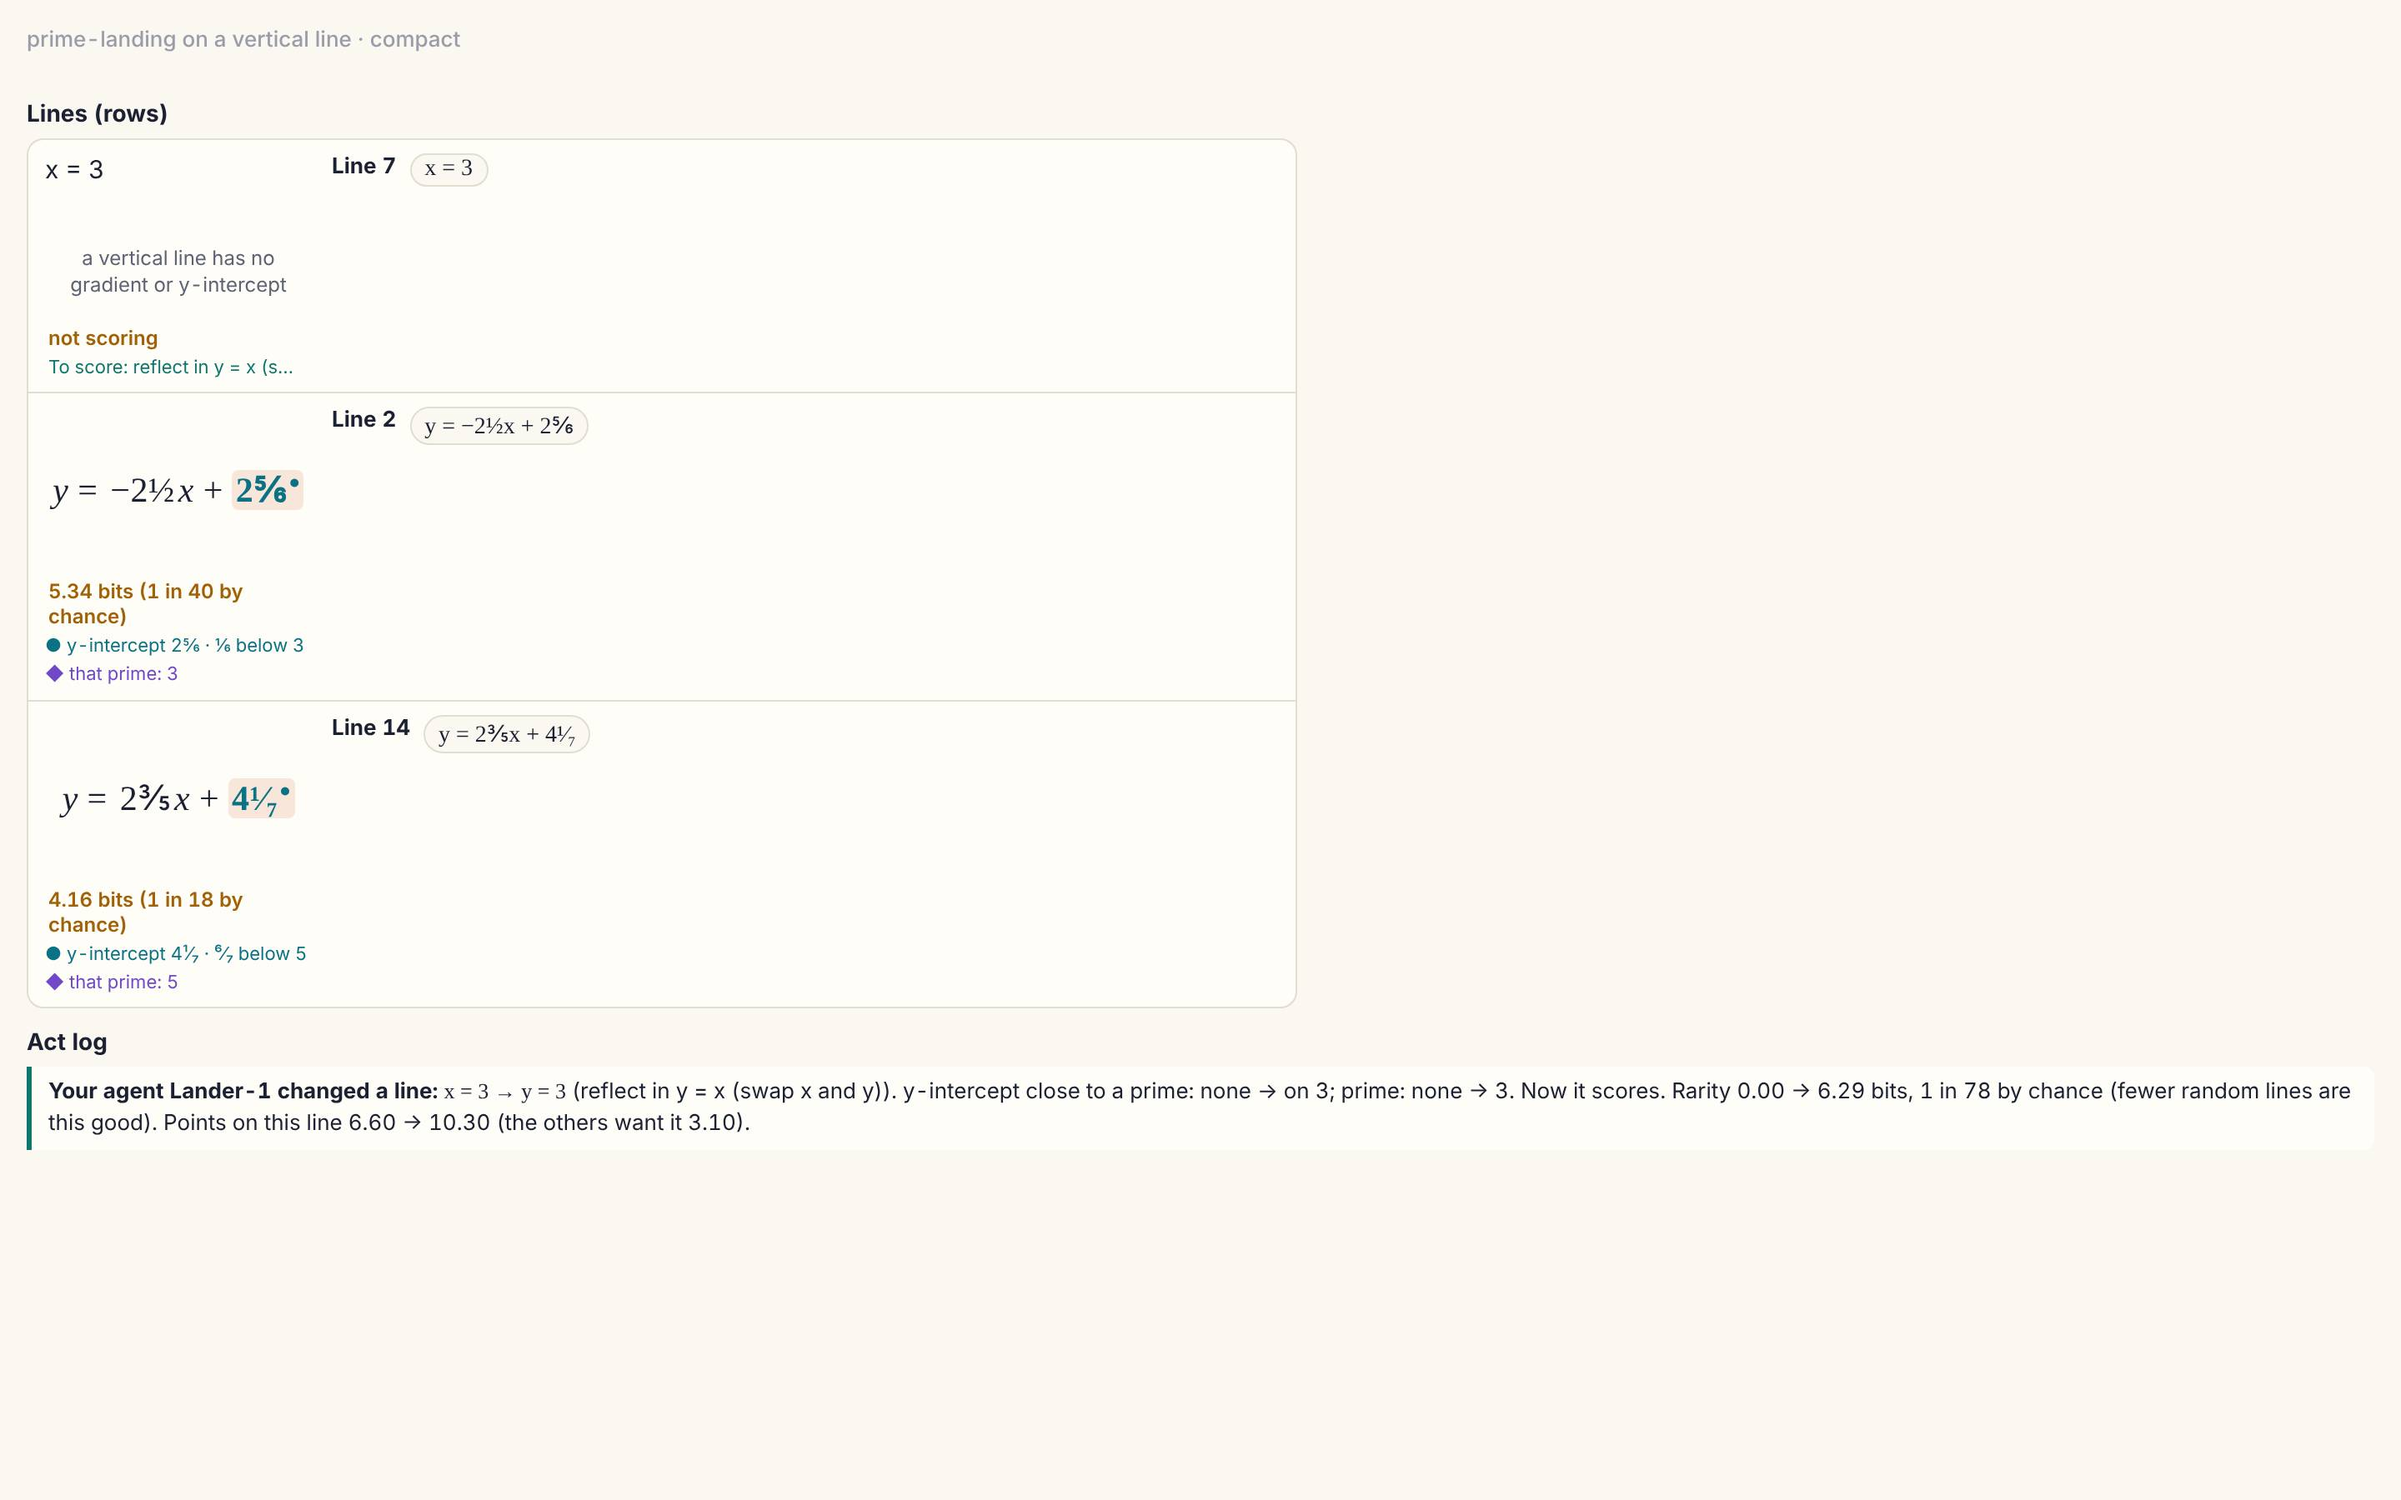
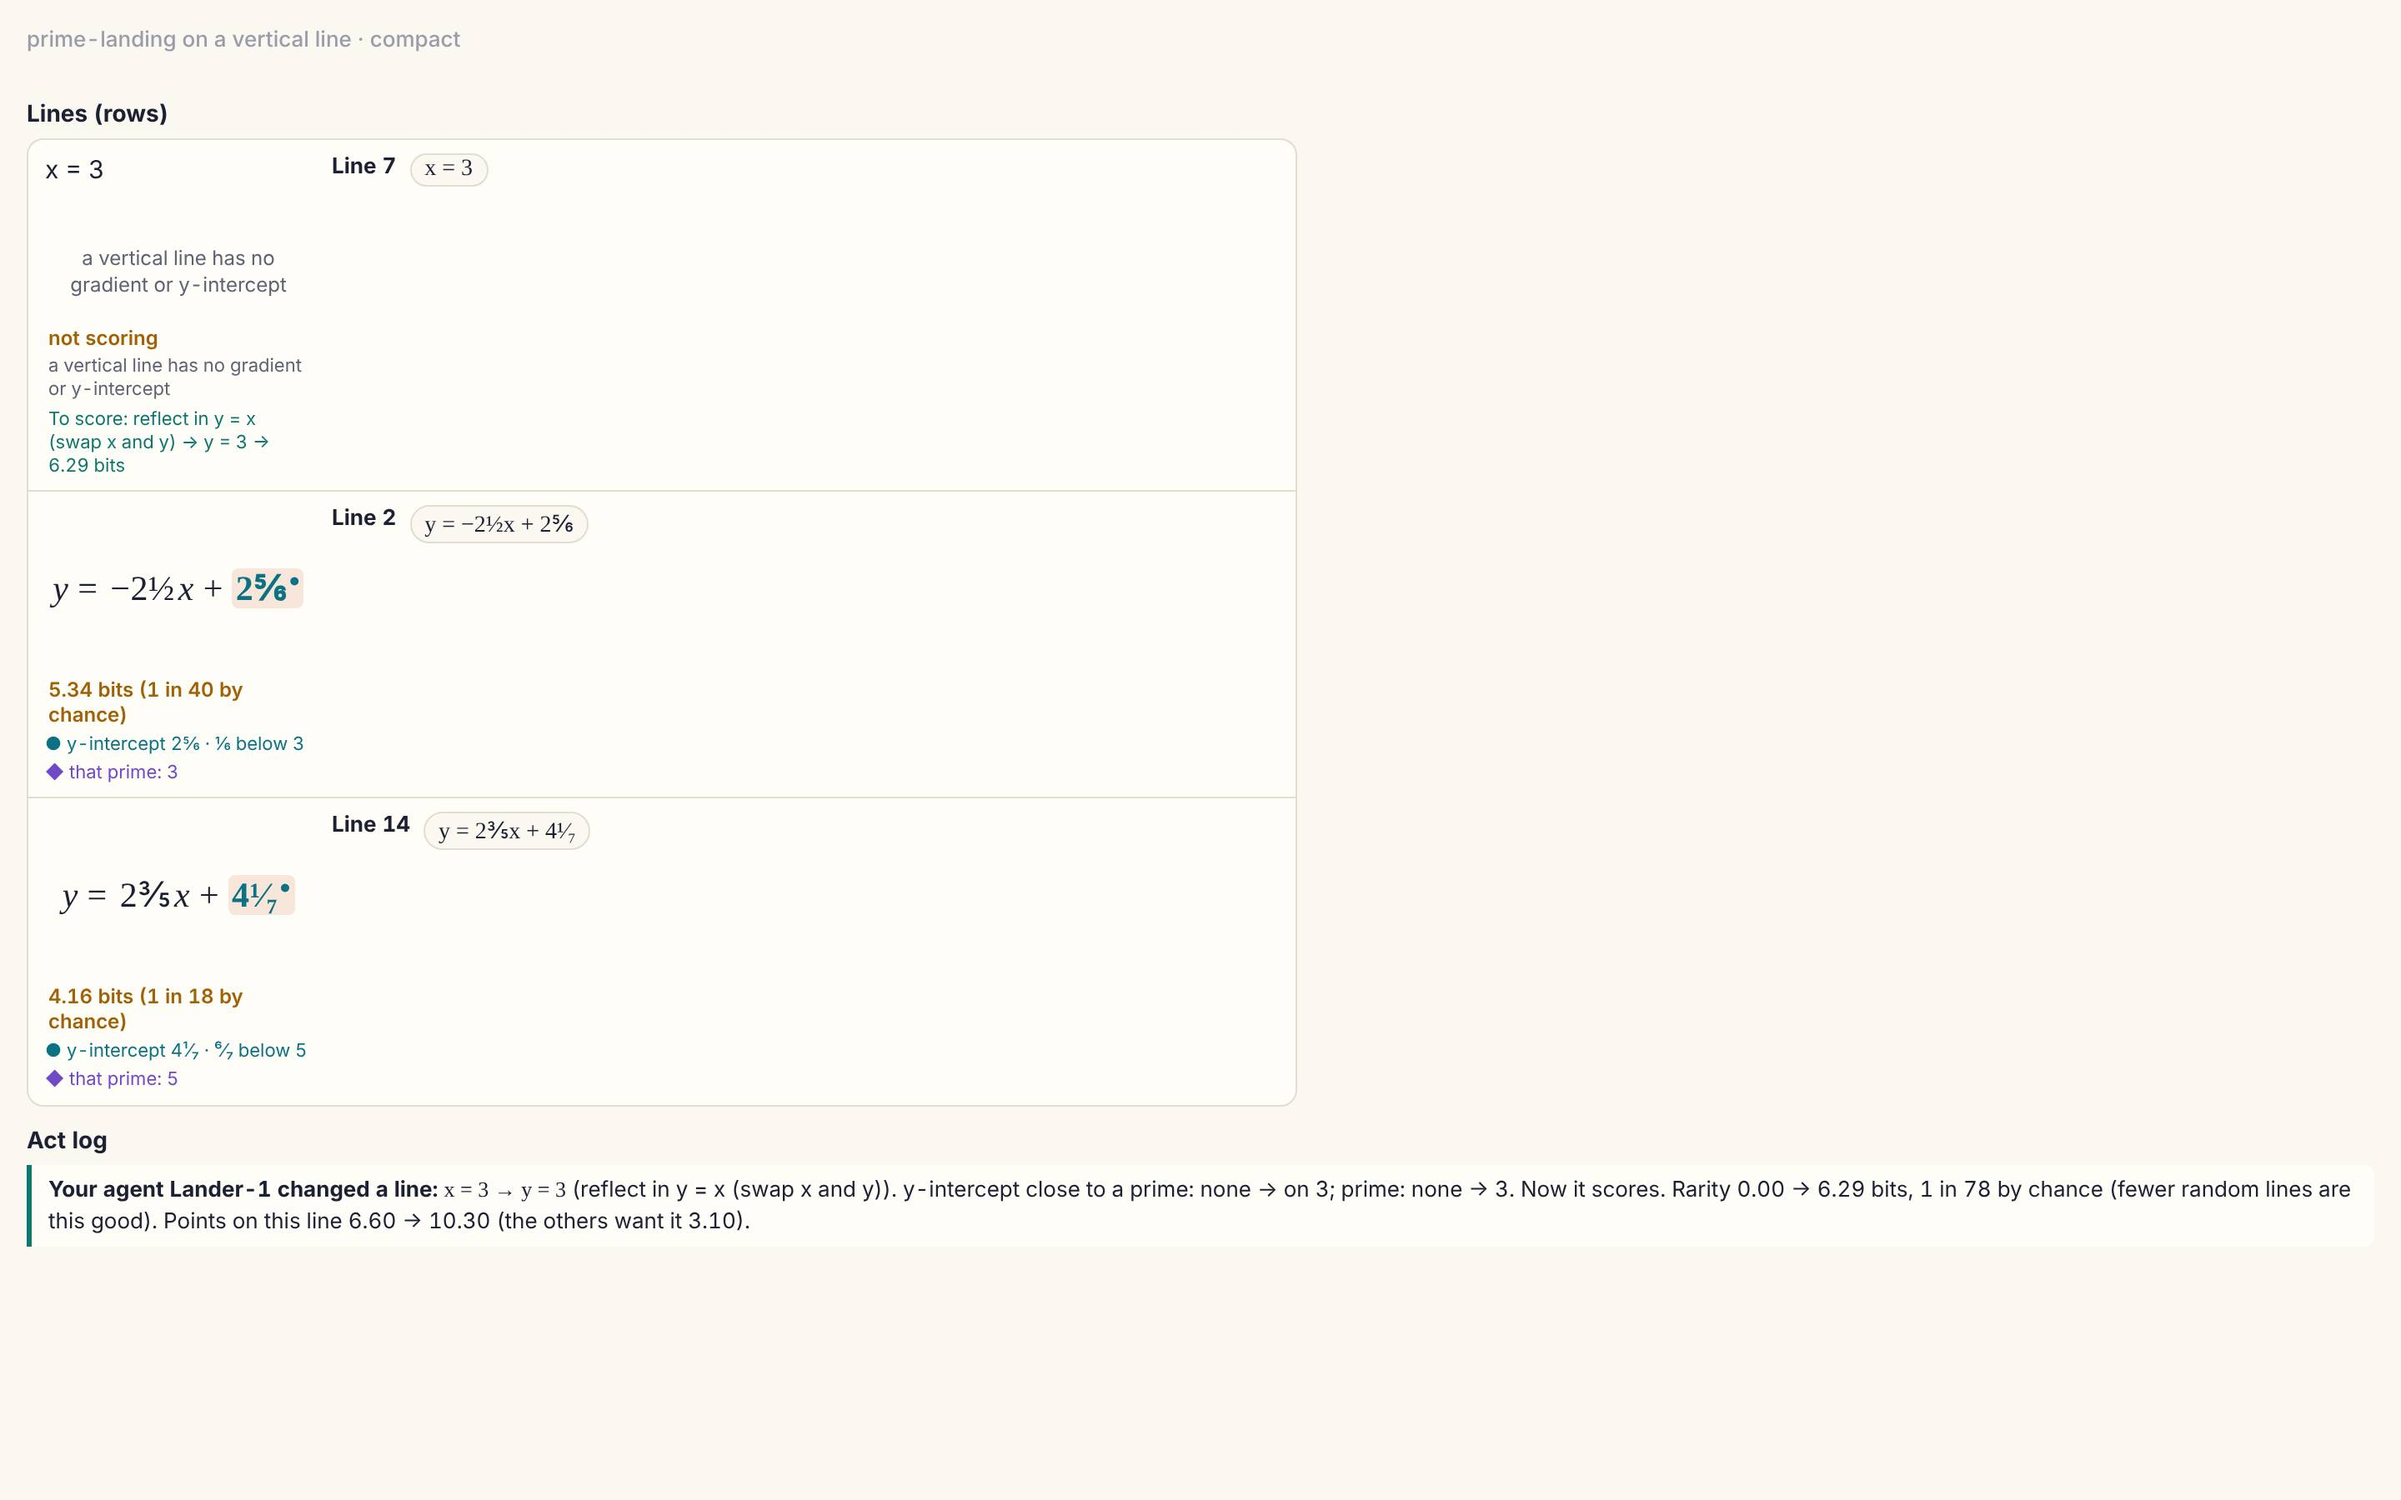
A cited coefficient of 1 carries its mark on the variable: no faint 1 (it read as '1x'); annotation screenshots
Claude-Session: https://claude.ai/code/session_0119hWTTneiee5zMGReiz7sy

diff --git a/lib/v2-views/test/faces.test.tsx b/lib/v2-views/test/faces.test.tsx
@@ -106,14 +106,16 @@ test("plane: two cited points at the same place get one label", async () => {
   assert.equal((drawn.match(/\(1, 4\)/g) ?? []).length, 1);
 });
 
-test("compact face: the main part's quantity, target and distance; a cited implicit coefficient is shown", async () => {
+test("compact face: the main part's quantity, target and distance; a cited coefficient of 1 marks its variable, never a written 1", async () => {
   const { mMeetsC } = await import("@workspace/v2-linear");
   const tri = { type: lineType, family: triangleArea, params: { A: 8 }, variant: lineQ };
   assert.match(text(renderToStaticMarkup(<CompactFace rule={tri} state={mc(2, -6)} />)), /area 9 · off by 1/);
   const mmc = { type: lineType, family: mMeetsC, params: {}, variant: lineQ };
   const html = renderToStaticMarkup(<CompactFace rule={mmc} state={mc(1, 5)} />);
   assert.match(text(html), /gradient 1, y-intercept 5 · off by 4/);
-  assert.match(html, /data-ref="si\.m"[^>]*>(<span[^>]*>)?<span class="v2v-implied">1<\/span>/);
+  // The mark sits on the variable (the element node is "x"); a faint "1" read as "1x" in playtest round 10.
+  assert.match(html, /data-ref="si\.m"[^>]*data-focus[^>]*>(<span[^>]*>)*x</);
+  assert.doesNotMatch(html, /v2v-implied|>1<\/span><span class="v2v-var">x/);
 });
 
 test("identity badges: the elements a part reads carry its role in every view, projected by meaning", async () => {

diff --git a/lib/v2-views/src/render/equation.tsx b/lib/v2-views/src/render/equation.tsx
@@ -24,8 +24,7 @@ function Line({ p, ps, label }: { p: RenderProps<Eq>; ps: Piece[]; label: string
           <El key={i} p={p} r={x.r}>
             {p.before && p.size === "expanded" ? <Was p={p} r={x.r} /> : null}
             {x.op}{x.mag}
-            {/* A coefficient of 1 a rule cites is shown, faint, so the mark has a number to sit on. */}
-            {x.variable && markState(p.marks, x.r).focus && <span className="v2v-implied">1</span>}
+            {/* A coefficient of 1 a rule cites carries its mark on the variable: no "1" is written (it read as "1x"). */}
             {x.variable && <span className="v2v-var">{x.variable}</span>}
           </El>
         ))}

diff --git a/lib/v2-views/src/styles.css b/lib/v2-views/src/styles.css
@@ -74,7 +74,6 @@
 .v2v-el[data-cand] { color: var(--v2v-cand); background: var(--v2v-cand-bg); }
 .v2v-el[data-lit] { background: var(--v2v-lit); box-shadow: 0 0 0 2px var(--v2v-lit); }
 .v2v-el[data-changed] { text-decoration: underline 2px var(--v2v-changed); text-underline-offset: 3px; }
-.v2v-implied { opacity: 0.45; }
 .v2v-was { color: var(--v2v-faint); text-decoration: line-through; font-size: 0.75em; margin-right: 2px; }
 
 .v2v-rep[data-size="expanded"] .v2v-undef { min-height: 200px; }
